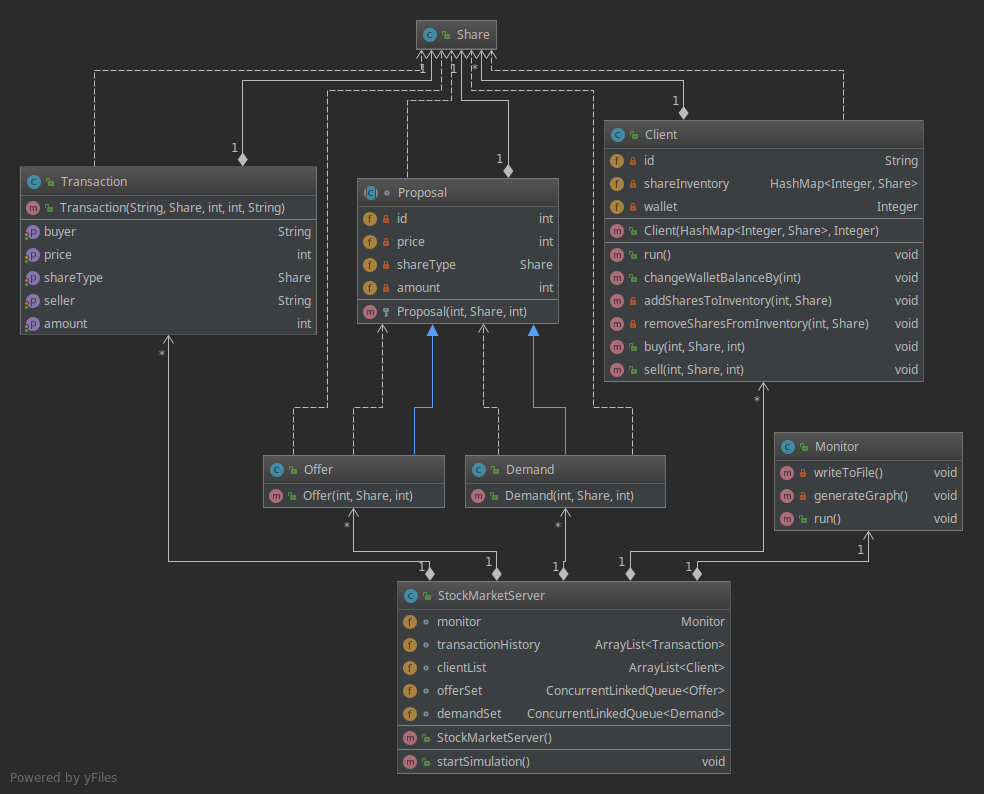
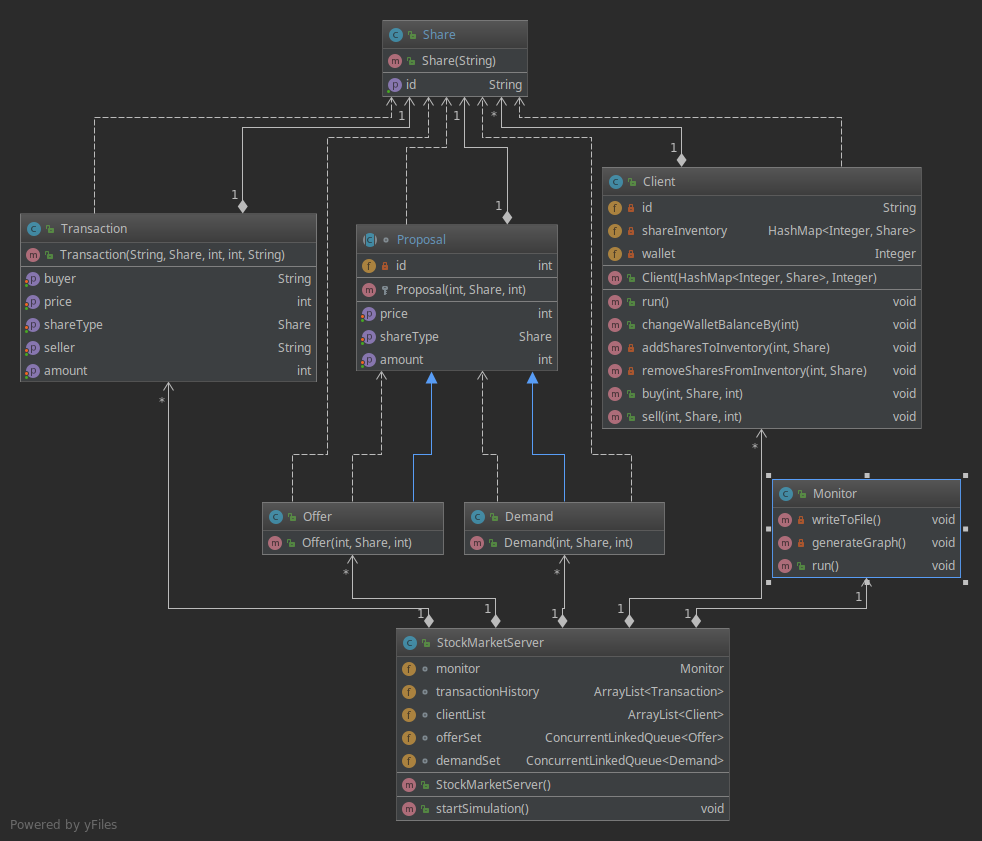
Made just enough changes to be able to run the threads

diff --git a/src/com/dead10cc/Client.java b/src/com/dead10cc/Client.java
@@ -3,37 +3,48 @@ package com.dead10cc;
 import java.util.HashMap;
 
 public class Client implements Runnable{
+    private static int counter; //counts the number of instances
     private String id;
-    private HashMap<Integer, Share> shareInventory;
-    private Integer wallet;
+    private HashMap<Share, Integer> shareInventory;
+    private int wallet;
     private boolean wantsToTrade;
 
 
-    public Client(HashMap<Integer, Share> shareInventory, Integer wallet) {
-        this.shareInventory = shareInventory;
-        this.wallet = wallet;
-        // TODO: generate ID here
+    Client() {
+        this.shareInventory = new HashMap<>();
+        this.wallet = 0;
+
+        // Generate ID here
+        this.id = String.valueOf(counter);
+        counter++;
+    }
+
+    public String getId() {
+        return id;
     }
 
     @Override
     public void run() {
+        wantsToTrade = true;
         // TODO: this will run until the client runs out of money or decides to quit (by small random chance)
         while (wantsToTrade) {
             //read history
             //decide trade
+            System.out.println("client " + id + " is alive and wants to trade");
         }
     }
 
     public void changeWalletBalanceBy(int amount) {
         if (wallet + amount < 0) {
-            //TODO: here the client is out of money
+            //here the client is out of money
+            wantsToTrade = false;
         } else {
             wallet += amount;
         }
     }
 
-    private void addSharesToInventory(int amount, Share shareType){
-
+    private void addSharesToInventory(Share shareType, int amount){
+        shareInventory.put(shareType, shareInventory.getOrDefault(shareType, 0) + amount);
     }
 
     private void removeSharesFromInventory(int amount, Share shareType){

diff --git a/src/com/dead10cc/StockMarketServer.java b/src/com/dead10cc/StockMarketServer.java
@@ -3,26 +3,37 @@ package com.dead10cc;
 import java.util.ArrayList;
 import java.util.concurrent.ConcurrentLinkedQueue;
 
-public class StockMarketServer {
+class StockMarketServer {
 
-    Monitor monitor;
+    private Monitor monitor = new Monitor();
 
-    ArrayList<Transaction> transactionHistory;
+    private ArrayList<Transaction> transactionHistory;
 
-    ArrayList <Client> clientList;
+    private ArrayList <Thread> threadList = new ArrayList<>();
 
-    ConcurrentLinkedQueue<Offer> offerSet;
-    ConcurrentLinkedQueue<Demand> demandSet;
+    private ConcurrentLinkedQueue<Offer> offerSet;
+    private ConcurrentLinkedQueue<Demand> demandSet;
 
 
 
-    public StockMarketServer() {
+    StockMarketServer() {
         // here we will add the clients
+        ArrayList<Client> clientList = new ArrayList<>();
+        clientList.add(new Client());
+        clientList.add(new Client());
+        clientList.add(new Client());
+        threadList.add(new Thread(monitor));
+        for (Client c : clientList){
+            threadList.add(new Thread(c));
+        }
     }
 
-    public void startSimulation() {
+    void startSimulation() {
         // TODO: run monitor thread, then run client threads
         // check offerSet and demandSet and if matches are found, make transactions
         // wait for them to finish
+        for (Thread t: threadList) {
+            t.start();
+        }
     }
 }

diff --git a/src/com/dead10cc/Main.java b/src/com/dead10cc/Main.java
@@ -3,6 +3,7 @@ package com.dead10cc;
 public class Main {
 
     public static void main(String[] args) {
-	// write your code here
+        StockMarketServer s = new StockMarketServer();
+        s.startSimulation();
     }
 }
